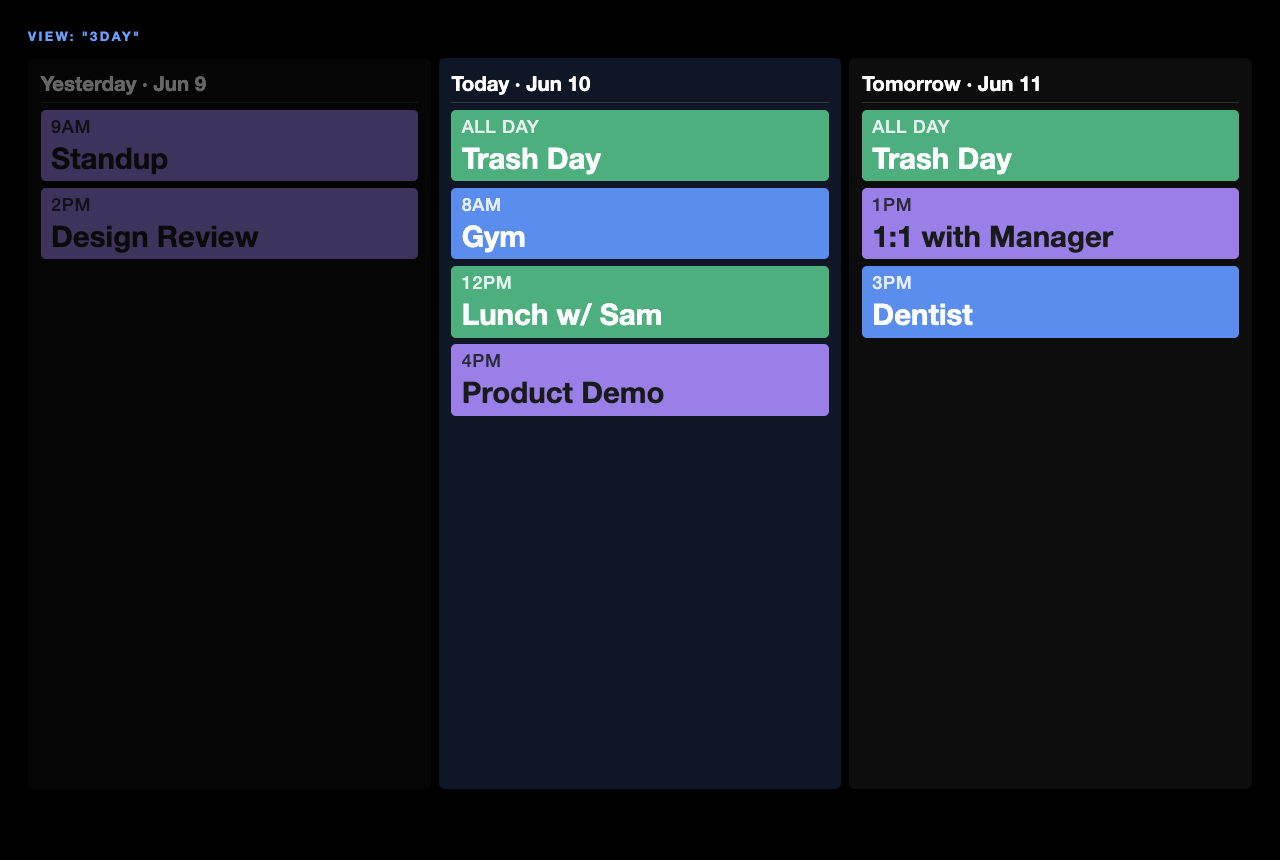
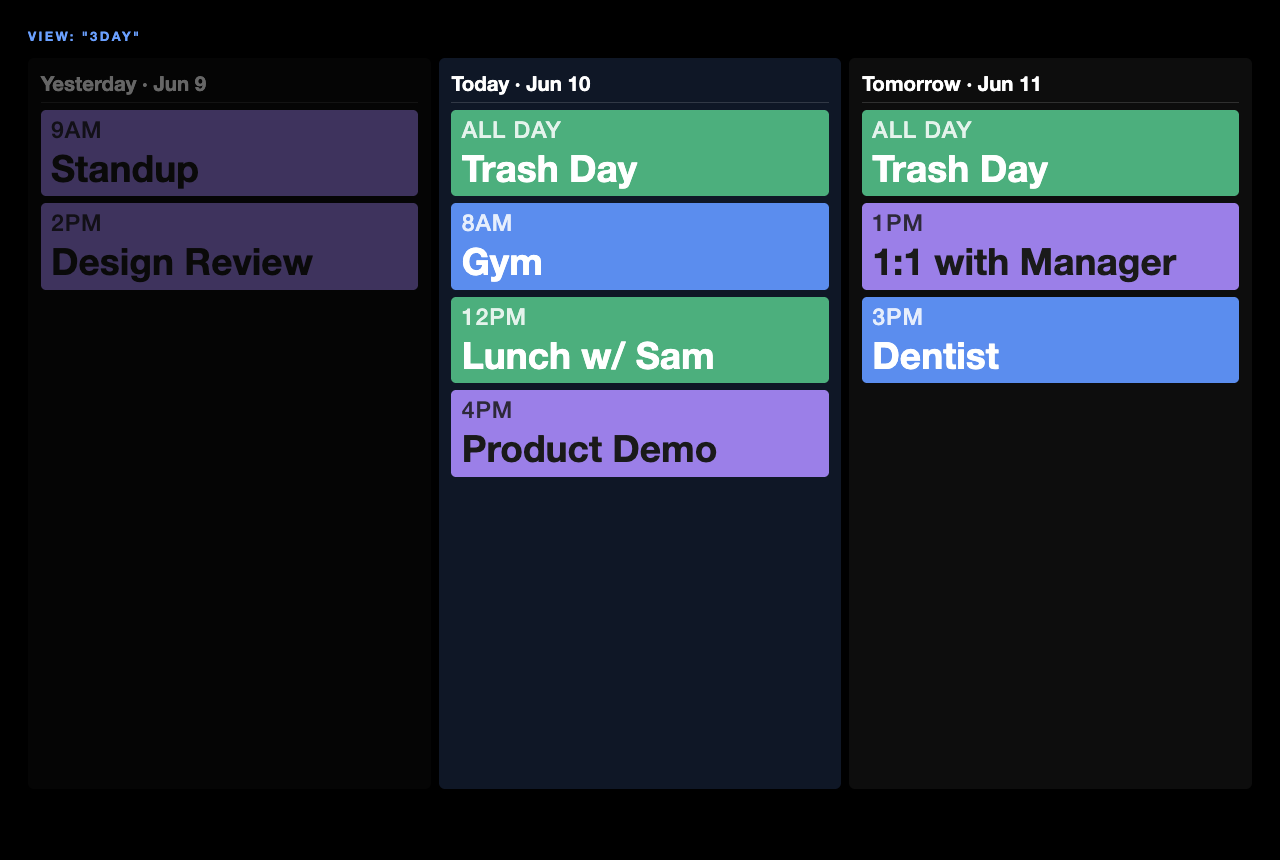
Enlarge 3day/5day card text further
Bump the scoped card font sizes for both day-card views (3day biggest,
5day a step smaller to fit 5 columns) and regenerate their screenshots.

Changed region(s): [[0.0312, 0.1209, 0.9688, 0.5744]]

diff --git a/MMM-CalendarGrid.css b/MMM-CalendarGrid.css
@@ -241,13 +241,23 @@
   word-break: break-word;
 }
 
-/* 3day has 3 wide columns — give it noticeably larger text (5day stays tighter) */
+/* Day cards get larger text than the shared default. 3day has 3 wide
+   columns so it goes biggest; 5day is bumped too but stays a bit smaller
+   to fit its 5 columns. */
 .mmm-cg-3day .mmm-cg-card-time {
-  font-size: clamp(12px, 1.4vw, 22px);
+  font-size: clamp(14px, 1.8vw, 28px);
 }
 
 .mmm-cg-3day .mmm-cg-card-title {
-  font-size: clamp(20px, 2.3vw, 38px);
+  font-size: clamp(24px, 2.9vw, 48px);
+}
+
+.mmm-cg-5day .mmm-cg-card-time {
+  font-size: clamp(12px, 1.3vw, 21px);
+}
+
+.mmm-cg-5day .mmm-cg-card-title {
+  font-size: clamp(17px, 2vw, 34px);
 }
 
 /* ── View: agenda (vertical grouped list) ────────────────────────────── */
